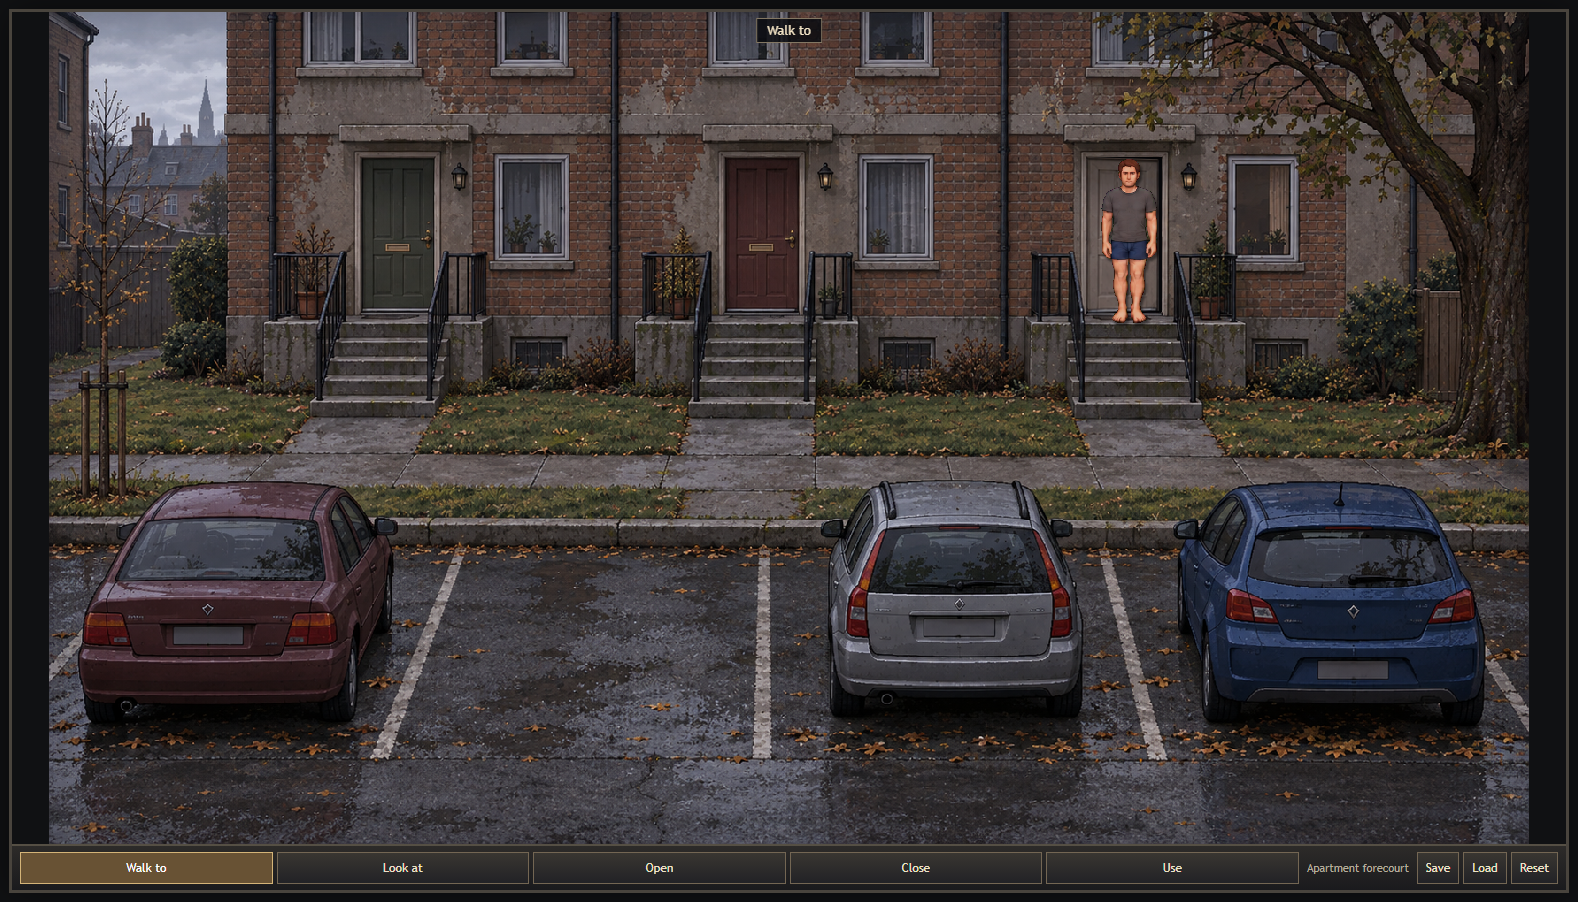
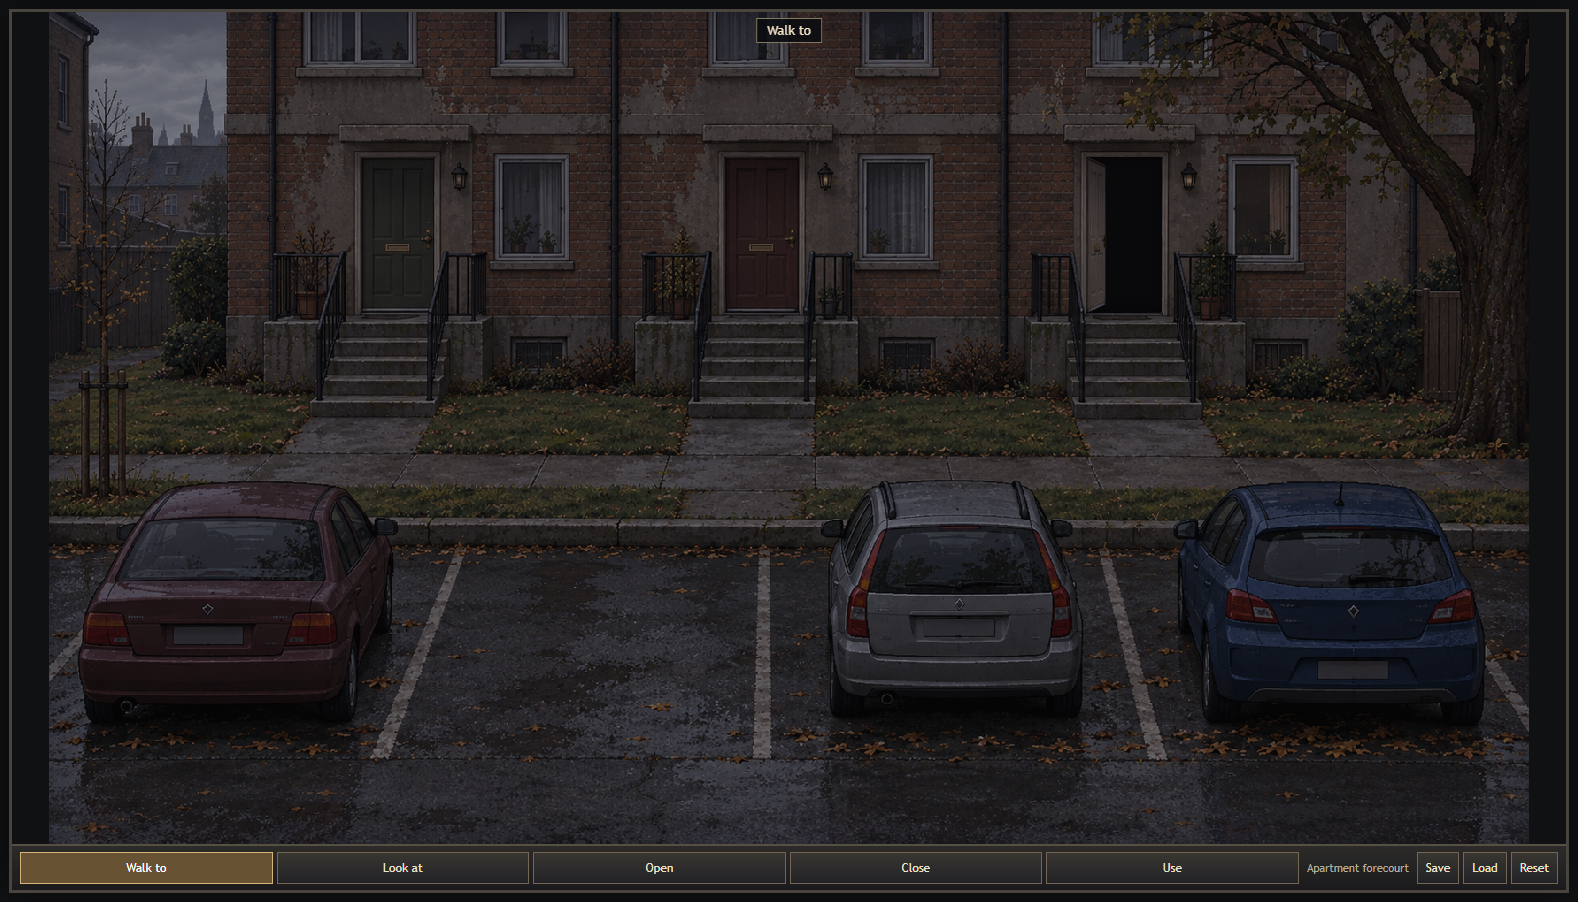
Improve exterior movement and perspective

diff --git a/style.css b/style.css
@@ -60,9 +60,8 @@ body.game-started #game { opacity: 1; }
 #statusText { position: absolute; z-index: 140; left: 50%; top: 6px; transform: translateX(-50%); max-width: 90%; padding: 4px 10px; text-align: center; background: #0a0c10d9; border: 1px solid #837763; color: #f2e3c5; font-size: 13px; pointer-events: none; }
 .hotspot { position: absolute; z-index: 15; padding: 0; border: 0; background: transparent; opacity: 0; }
 .hotspot:hover, .hotspot:focus-visible { opacity: 0; background: transparent; outline: none; }
-.sprite { position: absolute; width: 27.5%; aspect-ratio: 1; pointer-events: none; transform-origin: center bottom; transform: translate(-50%, -100%) scaleX(var(--facing, 1)) scale(var(--depth, 1)); filter: brightness(.64) drop-shadow(2px 3px 1px #0007); transition: filter 1.4s ease-in-out; }
-#scene[data-room="bedroom"] .sprite { width: 30.5%; }
-#scene[data-room="outside"] .sprite { width: 12%; filter: brightness(.88) drop-shadow(2px 3px 1px #0006); }
+.sprite { position: absolute; width: var(--sprite-width, 27.5%); aspect-ratio: 1; pointer-events: none; transform-origin: center bottom; transform: translate(-50%, -100%) scaleX(var(--facing, 1)); filter: brightness(.64) drop-shadow(2px 3px 1px #0007); transition: filter 1.4s ease-in-out, width .08s linear; }
+#scene[data-room="outside"] .sprite { filter: brightness(.88) drop-shadow(2px 3px 1px #0006); }
 #scene[data-room="outside"] .player-frame { translate: 0 var(--step-lift, 0%); rotate: var(--stair-lean, 0deg); }
 .curtains-open .sprite { filter: brightness(1) drop-shadow(2px 3px 1px #0007); }
 .player-frame { position: absolute; inset: 0; background: url('assets/bedroom_player.png') no-repeat; background-size: 500% 300%; filter: url(#sprite-green-key); }
@@ -94,8 +93,18 @@ body.game-started #game { opacity: 1; }
 #doorway[data-motion="closing"] #door-face { filter: brightness(.96); }
 #scene-fade { position: absolute; inset: 0; z-index: 130; background: #08090b; opacity: 0; pointer-events: none; }
 #scene[aria-busy="true"] { cursor: wait; }
-#foreground { display: none; position: absolute; inset: 0; z-index: 110; pointer-events: none; background: var(--room-image) center / 100% 100%; filter: brightness(.88) saturate(.9); }
+#foreground { display: none; position: absolute; inset: 0; z-index: 110; pointer-events: none; }
 #scene[data-room="living"] #foreground { display: block; clip-path: polygon(28% 73%, 31% 67%, 36% 64%, 48% 66%, 55% 64%, 69% 66%, 73% 72%, 73% 94%, 28% 94%); }
+#scene[data-room="living"] #foreground { background: var(--room-image) center / 100% 100%; filter: brightness(.88) saturate(.9); }
+#scene[data-room="outside"].player-behind-cars #foreground { display: block; }
+.outside-car-foreground { display: none; position: absolute; inset: 0; background: var(--room-image) center / 100% 100% no-repeat; }
+#scene[data-room="outside"].player-behind-cars .outside-car-foreground { display: block; }
+/* These silhouettes closely trace each painted vehicle rather than masking a
+   broad rectangle of road. Extra points preserve the roof, mirrors, quarter
+   panels, bumper corners and wheel-level outline at every responsive size. */
+.outside-car-foreground.burgundy { clip-path: polygon(1.9% 74.8%, 2.5% 71.1%, 3.8% 67.1%, 5.3% 61.5%, 6.7% 58.7%, 8.3% 57.2%, 11.1% 56.6%, 16.9% 56.7%, 19.1% 57.7%, 20.7% 59.7%, 21.5% 62.1%, 22.6% 61.1%, 23.4% 61.6%, 23.8% 63.1%, 23.3% 64.3%, 22.5% 64.8%, 23.2% 68.6%, 23.7% 73.3%, 23.7% 78.8%, 23.1% 82.7%, 21.8% 85.1%, 19.8% 86.0%, 5.4% 86.1%, 3.6% 84.5%, 2.3% 81.5%); }
+.outside-car-foreground.silver { clip-path: polygon(52.1% 63.8%, 52.3% 62.4%, 52.9% 61.4%, 53.7% 61.2%, 54.4% 61.8%, 55.1% 59.0%, 56.2% 57.2%, 58.0% 56.4%, 65.4% 56.5%, 66.8% 57.5%, 67.7% 59.4%, 68.4% 61.8%, 69.1% 61.2%, 69.8% 61.8%, 70.1% 63.1%, 69.7% 64.1%, 69.0% 64.5%, 69.5% 68.0%, 70.2% 72.1%, 70.4% 77.2%, 70.1% 81.8%, 69.2% 84.5%, 67.9% 85.8%, 54.9% 85.9%, 53.5% 84.3%, 52.7% 81.3%, 52.6% 74.0%); }
+.outside-car-foreground.blue { clip-path: polygon(75.7% 64.1%, 75.9% 62.6%, 76.6% 61.5%, 77.3% 61.3%, 78.1% 61.9%, 78.8% 59.3%, 80.1% 57.5%, 81.9% 56.7%, 90.8% 56.7%, 92.3% 57.6%, 93.6% 59.6%, 94.4% 62.3%, 95.3% 61.6%, 96.0% 62.0%, 96.5% 63.3%, 96.2% 64.4%, 95.5% 64.9%, 96.2% 68.5%, 96.8% 73.1%, 97.0% 78.3%, 96.6% 82.3%, 95.4% 84.7%, 93.8% 85.8%, 79.4% 85.9%, 77.7% 84.4%, 76.6% 81.4%, 76.1% 75.5%); }
 #interface { flex: 0 0 auto; display: grid; grid-template-columns: minmax(0, 1.5fr) auto auto; align-items: center; gap: 8px; padding: 6px 8px; max-height: 50%; overflow-y: auto; font-size: 12px; background: linear-gradient(#2d2b29, #1a1a1d); border-top: 2px solid #554f44; }
 #verbs { display: grid; grid-template-columns: repeat(5, minmax(0, 1fr)); gap: 4px; }
 #interface button { min-height: 32px; padding: 5px 8px; white-space: nowrap; border: 1px solid #736653; background: linear-gradient(#393631, #222226); }

diff --git a/outside.js b/outside.js
@@ -1,5 +1,5 @@
 // Walkable centre lines follow the painted patios, individual stair treads,
-// shared footpath, empty bay and the clear lane behind the parked cars.
+// shared footpath, the gaps between cars and the clear foreground lane.
 const outsidePaths = { nodes: [], edges: [] };
 function outsideNode(x, y) {
   outsidePaths.nodes.push({ x, y });
@@ -19,12 +19,51 @@ outsideFootpath.slice(1).forEach((id, i) => outsideEdge(outsideFootpath[i], id))
   }
   outsideEdge(previous, outsideFootpath[footIndex]);
 });
-const outsideBay = outsideNode(36, 92);
-outsideEdge(outsideFootpath[2], outsideBay);
-outsideEdge(outsideNode(5, 92), outsideBay);
-outsideEdge(outsideBay, outsideNode(96, 92));
+// The verticals are centred on the empty bay and the visible gaps between cars.
+// Their lower ends join one continuous lane in front of the parked vehicles.
+const outsideLaneXs = [5, 24, 36, 50, 72.7, 96];
+const outsideLane = outsideLaneXs.map(x => outsideNode(x, 92));
+outsideLane.slice(1).forEach((id, i) => outsideEdge(outsideLane[i], id));
+outsideEdge(outsideFootpath[2], outsideLane[2]); // empty parking bay
+[
+  [24, 1, 2, 1],
+  [50, 3, 4, 3],
+  [72.7, 4, 5, 4]
+].forEach(([x, leftFoot, rightFoot, laneIndex]) => {
+  const top = outsideNode(x, 55);
+  outsideEdge(outsideFootpath[leftFoot], top);
+  outsideEdge(top, outsideFootpath[rightFoot]);
+  outsideEdge(top, outsideLane[laneIndex]);
+});
+
+// Broad, overlapping regions let clicks retain their exact position wherever
+// there is clear ground. The narrow regions between vehicles connect the rear
+// footpath to the foreground, while the empty bay is fully explorable.
+const outsideFreeAreas = Object.freeze([
+  Object.freeze({ left: 5, right: 96, top: 52, bottom: 58, name: 'footpath' }),
+  Object.freeze({ left: 5, right: 96, top: 88, bottom: 96, name: 'foreground parking lot' }),
+  Object.freeze({ left: 24, right: 50, top: 55, bottom: 92, name: 'empty parking bay' }),
+  Object.freeze({ left: 21.5, right: 26.5, top: 55, bottom: 92, name: 'left car gap' }),
+  Object.freeze({ left: 47.5, right: 53, top: 55, bottom: 92, name: 'middle car gap' }),
+  Object.freeze({ left: 69, right: 75.5, top: 55, bottom: 92, name: 'right car gap' })
+]);
+
+function outsidePointIsFree(x, y) {
+  return outsideFreeAreas.some(area => x >= area.left && x <= area.right && y >= area.top && y <= area.bottom);
+}
+
+function outsideFreeSegment(a, b) {
+  const distance = Math.hypot(b.x-a.x, (b.y-a.y)*9/16);
+  const samples = Math.max(1, Math.ceil(distance / .5));
+  for (let i = 0; i <= samples; i++) {
+    const progress = i / samples;
+    if (!outsidePointIsFree(a.x + (b.x-a.x)*progress, a.y + (b.y-a.y)*progress)) return false;
+  }
+  return true;
+}
 
 function outsideProjection(x, y) {
+  if (outsidePointIsFree(x, y)) return { x, y, edge: null, free: true };
   let nearest;
   outsidePaths.edges.forEach((edge, index) => {
     const a = outsidePaths.nodes[edge.a], b = outsidePaths.nodes[edge.b];
@@ -44,10 +83,17 @@ function outsideRoute(from, to) {
   const startId = nodes.length-2, endId = nodes.length-1;
   const edges = [...outsidePaths.edges];
   for (const [point, id] of [[start, startId], [end, endId]]) {
-    const edge = outsidePaths.edges[point.edge];
-    edges.push({ a: edge.a, b: id, stairs: edge.stairs }, { a: id, b: edge.b, stairs: edge.stairs });
+    if (point.edge !== null) {
+      const edge = outsidePaths.edges[point.edge];
+      edges.push({ a: edge.a, b: id, stairs: edge.stairs }, { a: id, b: edge.b, stairs: edge.stairs });
+    } else {
+      outsidePaths.nodes.forEach((node, nodeId) => {
+        if (outsideFreeSegment(point, node)) edges.push({ a: id, b: nodeId, stairs: false });
+      });
+    }
   }
-  if (start.edge === end.edge) edges.push({ a: startId, b: endId, stairs: outsidePaths.edges[start.edge].stairs });
+  if (start.edge !== null && start.edge === end.edge) edges.push({ a: startId, b: endId, stairs: outsidePaths.edges[start.edge].stairs });
+  if (start.free && end.free && outsideFreeSegment(start, end)) edges.push({ a: startId, b: endId, stairs: false });
   const distance = nodes.map(() => Infinity), previous = [], pending = new Set(nodes.map((_, i) => i));
   distance[startId] = 0;
   while (pending.size) {

diff --git a/game.js b/game.js
@@ -97,6 +97,43 @@ const sprite = {
     [[148, 308], [142, 309], [151, 309], [160, 309], [167, 309]]
   ]
 };
+// Each room has measured perspective anchors. Widths are percentages of the
+// 16:9 scene and already account for the sprite sheet's transparent padding.
+// Door thresholds are explicit anchors, so every door has the same believable
+// character-to-door ratio even when several doors sit at different depths.
+const playerPerspectiveProfiles = Object.freeze({
+  bedroom: Object.freeze({ anchors: Object.freeze([
+    Object.freeze({ y: 56.5, width: 24.7, reference: 'bedroom door threshold' }),
+    Object.freeze({ y: 94, width: 34.3, reference: 'bedroom foreground' })
+  ]) }),
+  living: Object.freeze({ anchors: Object.freeze([
+    Object.freeze({ y: 39.6, width: 12.0, reference: 'recessed front door threshold' }),
+    Object.freeze({ y: 52.5, width: 22.1, reference: 'bedroom and bathroom door thresholds' }),
+    Object.freeze({ y: 94, width: 31.0, reference: 'living-room foreground' })
+  ]) }),
+  bathroom: Object.freeze({ anchors: Object.freeze([
+    Object.freeze({ y: 67.5, width: 23.8, reference: 'bathroom door threshold' }),
+    Object.freeze({ y: 82, width: 28.0, reference: 'bathroom foreground' })
+  ]) }),
+  outside: Object.freeze({ anchors: Object.freeze([
+    Object.freeze({ y: 37.4, width: 10.2, reference: 'exterior door thresholds and patios' }),
+    // At car depth the visible body is 1.8 / 1.4 times the cars' painted height.
+    Object.freeze({ y: 92, width: 22.4, reference: '1.8 m player beside 1.4 m cars' })
+  ]) })
+});
+function playerPerspective(roomId, y) {
+  const profile = playerPerspectiveProfiles[roomId] || playerPerspectiveProfiles.living;
+  const anchors = profile.anchors;
+  if (y <= anchors[0].y) return { width: anchors[0].width, depth: 1, progress: 0, reference: anchors[0].reference };
+  const last = anchors[anchors.length - 1];
+  if (y >= last.y) return { width: last.width, depth: last.width / anchors[0].width, progress: 1, reference: last.reference };
+  const upperIndex = anchors.findIndex(anchor => anchor.y >= y);
+  const lower = anchors[upperIndex - 1], upper = anchors[upperIndex];
+  const segmentProgress = (y - lower.y) / (upper.y - lower.y);
+  const width = lower.width + (upper.width - lower.width) * segmentProgress;
+  const progress = (y - anchors[0].y) / (last.y - anchors[0].y);
+  return { width, depth: width / anchors[0].width, progress, reference: `${lower.reference} ? ${upper.reference}` };
+}
 
 function setVerb(verb) {
   gameState.selectedVerb = verbNames[verb] ? verb : 'walk';
@@ -155,6 +192,7 @@ function movementFacing(dx, dy) {
 
 function renderPlayer(walking = false) {
   const outdoors = gameState.currentRoom === 'outside';
+  const perspective = playerPerspective(gameState.currentRoom, movement.y);
   const stairProgress = movement.stairProgress || 0;
   player.style.setProperty('--step-lift', outdoors && walking && movement.destination?.stairs ? (-Math.sin(stairProgress * Math.PI) * 1.8) + '%' : '0%');
   player.style.setProperty('--stair-lean', outdoors && walking && movement.destination?.stairs ? (movement.facing === 'up' ? '-1deg' : '1deg') : '0deg');
@@ -171,7 +209,9 @@ function renderPlayer(walking = false) {
   }
   player.style.left = `${movement.x}%`;
   player.style.top = `${movement.y}%`;
-  player.style.setProperty('--depth', outdoors ? 1 + (movement.y - 37.4) * .005 : 1 + (movement.y - 80) * 0.009);
+  player.style.setProperty('--sprite-width', `${perspective.width}%`);
+  player.style.setProperty('--depth', perspective.depth);
+  scene.classList.toggle('player-behind-cars', outdoors && movement.y < 88);
   player.style.zIndex = Math.round(movement.y);
 }
 
@@ -256,7 +296,7 @@ function advanceWalk(time) {
   movement.facing = movementFacing(dx, dy);
   movement.x += dx / distance * step;
   movement.y += dy / distance * step / ratio;
-  const depth = 1 + (movement.y - 80) * 0.009;
+  const depth = playerPerspective(gameState.currentRoom, movement.y).depth;
   const width = player.offsetWidth / scene.clientWidth * 100;
   movement.phase = (movement.phase + step / (width * depth * 0.65)) % 1;
   if (target.stairs) {

diff --git a/rooms.js b/rooms.js
@@ -25,7 +25,7 @@ const apartmentRooms = {
     objects: {
       bedroomDoor: { ...door('bedroom door', [18.4,14.5,8.5,38], [29,60], 'bedroom', 'door'), hinge: 'left' },
       bathroomDoor: { ...door('bathroom door', [67.5,12.5,10.1,39.7], [72.5,61], 'bathroom', 'livingDoor'), panel: [68.6,14.1,8,37.5], appearance: 'glass', hinge: 'right' },
-      exit: { ...door('apartment exit at the end of the hallway', [85.5,7,13.5,47], [91.5,55], 'outside', 'frontDoor'), panel: [89.1,18.4,5.2,21.2], hinge: 'right', swing: 1, description: 'A short recessed hallway leads to the front door and the concrete patio outside.' },
+      exit: { ...door('apartment exit at the end of the hallway', [85.5,7,13.5,47], [91.5,55], 'outside', 'frontDoor'), portal: [91.7,39.6], panel: [89.1,18.4,5.2,21.2], hinge: 'right', swing: 1, description: 'A short recessed hallway leads to the front door and the concrete patio outside.' },
       tv: item('living room TV', [80.8,41.5,18,44], [77,80], 'The TV stands to the right of the couch, angled left toward the seating area.'),
       channelBox: item('channel switching box', [84.8,62.5,9,8], [77,75], 'The set-top box switches between three channels. Use it to change channel.'),
       couch: item('couch', [28,64,45,30], [76,80], 'The sagging couch sits in the middle of the room facing the TV.', 'You straighten the blanket and test a cushion.'),

diff --git a/index.html b/index.html
@@ -61,7 +61,11 @@
         <div id="player" class="sprite" data-facing="down" aria-label="Player character">
           <div class="player-frame"></div>
         </div>
-        <div id="foreground" aria-hidden="true"></div>
+        <div id="foreground" aria-hidden="true">
+          <div class="outside-car-foreground burgundy"></div>
+          <div class="outside-car-foreground silver"></div>
+          <div class="outside-car-foreground blue"></div>
+        </div>
         <div id="messageBox" class="hidden" role="status" aria-live="polite"></div>
         <div id="scene-fade" aria-hidden="true"></div>
       </section>

diff --git a/README.md b/README.md
@@ -14,7 +14,8 @@ The title screen's New Game button leads into the bedroom, with closed curtains 
 - The lit lamp and its embedded painted glow are kept above the curtain-controlled room dimmer using an exactly aligned copy of the original bedroom pixels with a broad feathered edge. This keeps their brightness constant without a visible mask boundary. A small neutral brightness lift sits above the dimmer too. Switching the lamp off hides both layers and swaps to the genuine lamp-off background.
 - **Use** the living room TV to toggle power and its channel box to cycle three channels. Explore the appliances, plant, key hooks, entry drawers and other furnishings with the action verbs.
 - The apartment exit leads onto the right-hand concrete patio in the exterior forecourt. Click its front door to return inside. The two neighbouring apartments to the left are reachable but locked.
-- Exterior walking follows the patios, five stair treads, shared footpath and empty parking bay. Stair travel slows down and adds a small footfall lift and lean. Cars block direct crossing; routes reach them using the clear lane behind the bays.
+- Exterior walking follows the patios and five stair treads, then becomes free-form across the shared footpath, empty parking bay, all three visible gaps between cars, and the clear foreground asphalt. Clicked positions on open ground are retained exactly, while routes automatically avoid the occupied parking spaces. Stair travel slows down and adds a small footfall lift and lean. Parked-car foreground masks place the character behind the cars at the rear depth plane and in front of them near the camera.
+- Character size is controlled by one multi-anchor perspective table for every room. Every painted door has a measured threshold anchor, so the bedroom, bathroom, living-room doors, recessed hallway entrance and exterior doors all produce the same believable character-to-door ratio. Outdoors he grows continuously from 10.2% scene width at the patios to 22.4% at car depth. That foreground anchor makes his painted height approximately `1.8 / 1.4` times a car's height, matching a 1.8-metre person beside a 1.4-metre car. Both ends are clamped.
 - Four parking spaces contain three locked cars: a blue Lonza Experience hatchback, burgundy Arven Vale sedan and silver Veyra Solis estate. The game makes no claim about who owns them. A young tree and a mature tree stand beside the lawn.
 - Saves also support the exterior, including positions partway along a staircase.
 - **Save** and **Load** preserve the current room, player position, bedroom lighting and apartment interaction state. Old bedroom saves remain supported. **Reset** and fresh launches start in the dark bedroom; loading is explicit.
@@ -27,7 +28,7 @@ The title screen's New Game button leads into the bedroom, with closed curtains 
 
 - `game.js`: movement, door animations, room interactions, and save/load
 - `rooms.js`: living room/kitchen, bathroom and exterior objects and door connections
-- `outside.js`: artwork-aligned walking paths, stair treads and shortest-route selection
+- `outside.js`: artwork-aligned paths, stair treads, free parking-lot regions and obstacle-avoiding route selection
 - `assets/outside_bg.png`: exterior background; generation prompt in `assets/outside-art-notes.md`
 - `tests/outside-browser.cjs`: optional headless Chrome smoke check; captures patio and stairs into `output/`
 - `style.css`: responsive layout, curtains, lighting, and sprite rendering

diff --git a/assets/outside-art-notes.md b/assets/outside-art-notes.md
@@ -10,6 +10,14 @@ Use case: stylized-concept. Generate a NEW 16:9 point-and-click game exterior ba
 
 ## Implementation alignment
 
-Generated geometry was inspected and navigation aligned to the actual artwork rather than the prompt's proposed percentages. Patio centres are (23.5,37.4), (48,37.4), (73,37.4); stairs end at y=49; the shared footpath is y=55; the open parking bay is x=36; the rear lane is y=92. Coordinates are percentages of the uncropped image. Each staircase uses five segments. The existing directional sprite is reused with slower travel, footfall lift and a slight lean on stairs. Car make/model descriptions are supplied as game text, not dependent on tiny generated badges.
+Generated geometry was inspected and navigation aligned to the actual artwork rather than the prompt's proposed percentages. Patio centres are (23.5,37.4), (48,37.4), (73,37.4); stairs end at y=49; the shared footpath is y=55; the open parking bay is x=36; the foreground lane is y=92. Coordinates are percentages of the uncropped image. Each staircase uses five segments. Overlapping walkable regions allow exact free-form destinations on the footpath, empty bay, between-car gaps and foreground asphalt; sampled line-of-sight routing prevents paths from cutting through occupied bays. The existing directional sprite is reused with slower travel, footfall lift and a slight lean on stairs. Car make/model descriptions are supplied as game text, not dependent on tiny generated badges.
 
-Validation: 22 game tests plus headless Chrome exit/stairs/return smoke check. Preview images: `output/outside-patio-preview.png` and `output/outside-stairs-preview.png`.
+Each car's foreground occlusion layer uses a separately traced 25-plus-point silhouette around its roofline, mirrors, quarter panels, bumper corners and lower body, preventing surrounding road pixels from hiding the player.
+
+Validation: 27 game tests plus a headless Chrome perspective/exit/stairs/car-passages/free-parking/car-mask/return smoke check. Preview images include `output/outside-patio-preview.png`, `output/outside-stairs-preview.png`, `output/outside-between-cars-preview.png`, `output/outside-free-parking-preview.png`, and `output/outside-car-mask-preview.png`.
+
+## Perspective and car passages
+
+All rooms now use the same multi-anchor sizing system instead of unrelated CSS widths plus transform scaling. Each painted door has an anchor at its actual threshold depth. This includes a separate deep anchor for the small front door at the end of the living-room hallway, so the character shrinks while walking into that recess. Outdoors the actual sprite width is 10.2% at patio depth (`y=37.4`), closely matching the painted front-door opening, and grows linearly to 22.4% at car depth in the foreground lane (`y=92`). The latter is calculated so the visible character is approximately `1.8 / 1.4` times the painted car height: a 1.8-metre person beside a 1.4-metre car. Endpoints are clamped.
+
+Walk-graph passages run through the painted gaps at `x=24`, `x=50`, and `x=72.7`, in addition to the empty bay at `x=36`. They join the shared footpath to the foreground lane without crossing a vehicle. Separate foreground copies of the three car silhouettes occlude the character while his feet remain behind the cars; the masks disengage in the foreground lane so he correctly appears in front. Automated and Chromium checks cover the scale endpoints and a complete walk between the silver and blue cars.
